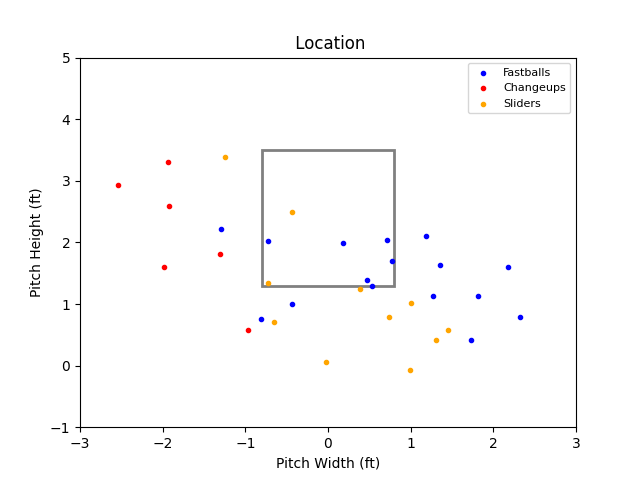
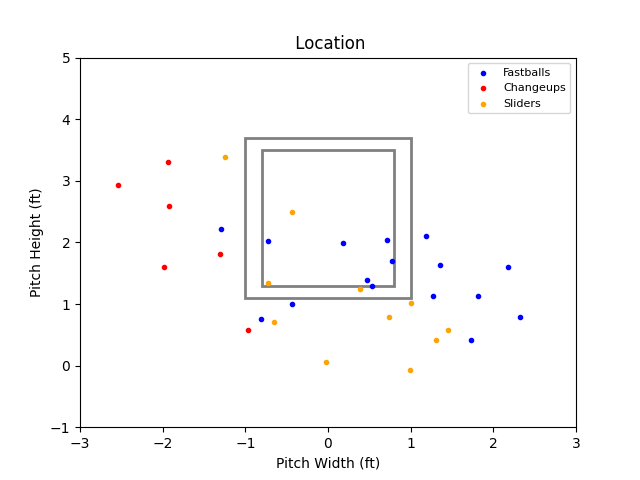
Shadow zone added

Changed region(s): [[0.375, 0.2812, 0.6562, 0.625]]

diff --git a/filereader.py b/filereader.py
@@ -96,6 +96,8 @@ def pltPitches(Player):
 
   rect=mpatches.Rectangle((-.8,1.3),1.6,2.2, fill = False, color = "gray", linewidth = 2)    
   plt.gca().add_patch(rect)
+  shadow=mpatches.Rectangle((-1,1.1),2,2.6, fill = False, color = "gray", linewidth = 2)    
+  plt.gca().add_patch(shadow)
   if len(xFast) != 0:
     plt.scatter(xFast, yFast, label= "Fastballs", c= "blue", marker= ".")
   if len(xChup) != 0:
